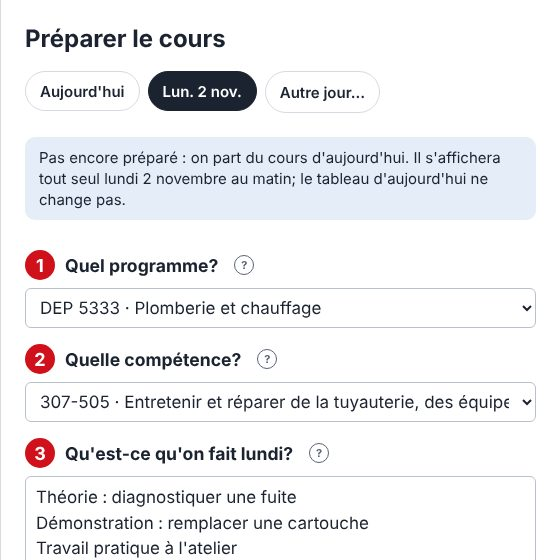
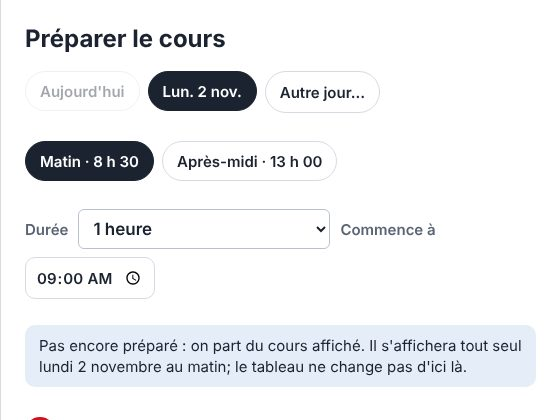
Tableau de bord : préparer matin ou après-midi, durée du cours (1 h, 2 h…)
Claude-Session: https://claude.ai/code/session_0132P7fSy2K8VC3HWdnHumMj

diff --git a/accueil.html b/accueil.html
@@ -154,6 +154,10 @@ header { grid-column: 1 / -1; display: flex; align-items: center; justify-conten
 .jour-choix button .pret { width: 8px; height: 8px; border-radius: 50%; background: #2f9e44; }
 .jour-choix button.on .pret { background: #69db7c; }
 .jour-choix input[type=date] { border: 0; background: transparent; color: inherit; font: inherit; width: 0; padding: 0; opacity: 0; position: absolute; pointer-events: none; }
+.jour-choix button:disabled { opacity: .4; cursor: default; }
+.duree-choix { display: flex; flex-wrap: wrap; align-items: center; gap: 8px 10px; margin: 2px 0 12px; }
+.duree-choix label { font: 600 15px var(--body); color: var(--muted); }
+.duree-choix select, .duree-choix input { height: 40px; border-radius: 10px; border: 1px solid var(--line); background: var(--surface); color: var(--ink); font: 600 15px var(--body); padding: 0 10px; }
 .jour-note { margin: -2px 0 14px; padding: 10px 14px; border-radius: 10px; background: color-mix(in srgb, var(--water) 12%, transparent); font-size: 15px; line-height: 1.4; }
 .exam-opt { display: flex; gap: 12px; align-items: flex-start; margin: 4px 0 18px; padding: 12px 14px; border: 1px solid var(--line); border-radius: 10px; cursor: pointer; line-height: 1.35; }
 .exam-opt input { width: 22px; height: 22px; margin: 1px 0 0; flex: none; accent-color: #e50914; cursor: pointer; }
@@ -617,6 +621,8 @@ html.anim-off .bgfx .flow, html.anim-off .bgfx .gauge-needle, html.anim-off .bgf
   <form class="sheet-in" id="prepForm">
     <h2>Préparer le cours</h2>
     <div class="jour-choix" id="f-jours" role="group" aria-label="Pour quel jour?"></div>
+    <div class="jour-choix" id="f-pers" role="group" aria-label="Matin ou après-midi?"></div>
+    <div class="duree-choix"><label for="f-duree">Durée</label><select id="f-duree"></select><label for="f-debut">Commence à</label><input type="time" id="f-debut" step="300"></div>
     <p class="jour-note" id="f-jour-note" hidden></p>
     <div class="field"><label for="f-prog" class="step-q"><span class="num">1</span>Quel programme? <span class="tip-i" tabindex="0" role="img" aria-label="Aide : Le logo, le nom du programme et la liste des compétences changent selon ce choix." data-tip="Le logo, le nom du programme et la liste des compétences changent selon ce choix.">?</span></label><select id="f-prog"><option value="5333">DEP 5333 · Plomberie et chauffage</option><option value="5211">DEP 5211 · Entretien général d'immeubles</option></select></div>
     <div class="field"><label for="f-comp" class="step-q"><span class="num">2</span>Quelle compétence? <span class="tip-i" tabindex="0" role="img" aria-label="Aide : Elle s'affiche aux élèves et choisit l'arrière-plan." data-tip="Elle s'affiche aux élèves et choisit l'arrière-plan.">?</span></label><select id="f-comp"></select><input id="f-module" placeholder="Nom du module, si « Autre »"></div>
@@ -631,7 +637,7 @@ html.anim-off .bgfx .flow, html.anim-off .bgfx .gauge-needle, html.anim-off .bgf
       <ul class="ai-why" id="ai-why" hidden></ul>
       <ol class="preview" id="f-preview" aria-label="Aperçu de l'horaire du matin"></ol>
       </details></div>
-    <label class="exam-opt" for="f-exam"><input type="checkbox" id="f-exam"><span><b>Examen aujourd'hui</b> — pas de pause dans l'horaire<small>Revient tout seul à l'horaire normal demain.</small></span></label>
+    <label class="exam-opt" for="f-exam"><input type="checkbox" id="f-exam"><span><b>Examen aujourd'hui</b> — pas de pause dans l'horaire<small>Seulement pour ce cours.</small></span></label>
     <div class="field"><span class="step-q"><span class="num">4</span>Ouvrir quelque chose pendant une activité? <small class="opt">facultatif</small></span>
       <small class="lk-aide">Choisis une page de livre, un schéma, un plan, un fichier (PDF, image…), un lien web, une vidéo YouTube ou une minuterie pour une activité. En classe, un bouton « Ouvrir » apparaît quand l'activité commence.</small>
       <div class="lk-liste" id="f-liens"></div></div>
@@ -741,15 +747,34 @@ function dur(sec) {
 // Structure fixe d'une période : les pauses ne peuvent pas être retirées
 const BLOCKS = [["cours", 60], ["pause", 5], ["cours", 60], ["pause", 15], ["cours", 60]];
 const CLASS_MIN = 180, SPAN = 200;
-/* Examen : case à cocher dans « Préparer le cours ». Aucune pause dans l'horaire (3 h 20 d'un bloc); valable pour la journée seulement. */
+/* Examen : case à cocher dans « Préparer le cours ». Aucune pause dans l'horaire; valable pour la période préparée seulement. */
 const jourAuj = () => new Date().toDateString();
-function examOn() { const c = document.getElementById("f-exam"); if (c && !document.getElementById("prep").hidden) return c.checked; return cfg.examen === jourAuj(); }
-const blocs = () => examOn() ? [["cours", SPAN]] : BLOCKS;
-const classMin = () => examOn() ? SPAN : CLASS_MIN;
+const isoJour = d => d.getFullYear() + "-" + String(d.getMonth() + 1).padStart(2, "0") + "-" + String(d.getDate()).padStart(2, "0");
+const dateIso = s => { const [a, m, j] = s.split("-").map(Number); return new Date(a, m - 1, j); };
+const nomJour = (s, court) => { const t = dateIso(s).toLocaleDateString("fr-CA", court ? { weekday: "short", day: "numeric", month: "short" } : { weekday: "long", day: "numeric", month: "long" }); return t.charAt(0).toUpperCase() + t.slice(1); };
+/* Durée d'un cours (30 oct., « des fois j'ai des cours de seulement une heure ») : chaque période (jour + matin/après-midi) peut avoir sa durée et son heure de début.
+   cfg.slot = "AAAA-MM-JJ|am" (période du contenu affiché), cfg.duree (minutes, 200 = période complète), cfg.debut ("HH:MM" ou "" = heure habituelle). */
+const DUREES = [[200, "Période complète · 3 h 20"], [60, "1 heure"], [90, "1 h 30"], [120, "2 heures"], [150, "2 h 30"]];
+function blocsPour(D, exam) {
+  if (exam) return [["cours", D]];
+  if (D === SPAN) return BLOCKS;
+  if (D <= 75) return [["cours", D]];                                   /* 1 heure : pas de pause */
+  if (D <= 145) { const a = Math.round((D - 5) / 2 / 5) * 5; return [["cours", a], ["pause", 5], ["cours", D - 5 - a]]; }
+  return [["cours", 60], ["pause", 5], ["cours", 60], ["pause", 15], ["cours", D - 140]];
+}
+function prepOuvert() { const p = document.getElementById("prep"); return !!p && !p.hidden; }
+function examOn() { const c = document.getElementById("f-exam"); if (c && prepOuvert()) return c.checked; return cfg.examen === jourAuj(); }
+const ctxForm = () => ({ D: +(document.getElementById("f-duree") || {}).value || SPAN, exam: document.getElementById("f-exam").checked });
+function ctxDe(start) { const p = periods().find(x => x.start === start); return { D: p ? p.end - p.start : SPAN, exam: !!(p && p.actif) && cfg.examen === jourAuj() }; }
+const blocs = ctx => blocsPour(ctx.D, ctx.exam);
+const classMin = ctx => blocs(ctx).reduce((t, [ty, d]) => t + (ty === "cours" ? d : 0), 0);
+const dureeTexte = m => m >= 60 ? Math.floor(m / 60) + " h" + (m % 60 ? " " + String(m % 60).padStart(2, "0") : "") : m + " min";
 
 function periods() {
-  return [["Matin", cfg.amStart], ["Après-midi", cfg.pmStart]].filter(p => /\d/.test(p[1] || ""))
-    .map(([name, t]) => ({ name, start: toMin(t), end: toMin(t) + SPAN })).sort((a, b) => a.start - b.start);
+  const auj = isoJour(new Date());
+  return [["Matin", "am", cfg.amStart], ["Après-midi", "pm", cfg.pmStart]].filter(p => /\d/.test(p[2] || ""))
+    .map(([name, key, t]) => { const actif = cfg.slot === auj + "|" + key, st = toMin(actif && cfg.debut ? cfg.debut : t), D = actif ? (+cfg.duree || SPAN) : SPAN;
+      return { name, key, actif, start: st, end: st + D }; }).sort((a, b) => a.start - b.start);
 }
 // Durées typiques selon les mots du point (en minutes). "flex" = activité qui absorbe le temps restant.
 const RULES = [
@@ -770,8 +795,10 @@ function estimate(label) {
   for (const [re, d, flex] of RULES) if (re.test(label)) return { d, flex: !!flex };
   return { d: 30, flex: false };
 }
-function points(text) {
-  const CLASS_MIN = classMin(), exam = examOn();
+function points(text, ctx) {
+  ctx = ctx || (prepOuvert() ? ctxForm() : { D: SPAN, exam: false });
+  const CLASS_MIN = classMin(ctx), exam = ctx.exam;
+  const PAUSES = []; { let c = 0; blocs(ctx).forEach(([ty, d]) => { if (ty === "cours") c += d; else PAUSES.push(c); }); }
   const items = text.split("\n").map(l => l.trim()).filter(Boolean).map(l => {
     const m = l.match(/^(\d+)\s*(?:min)?\s*\|\s*(.+)$/);
     return m ? { d: +m[1], label: m[2].trim(), fixed: true } : { label: l.replace(/^\|\s*/, ""), fixed: false };
@@ -805,7 +832,7 @@ function points(text) {
   for (let k = 0; k < list.length - 1; k++) {
     const L = list[k], R = list[k + 1];
     if (L.fixed || R.fixed || exam) continue;
-    for (const P of [60, 120]) {
+    for (const P of PAUSES) {
       if (L.b !== P && Math.abs(L.b - P) <= 10 && P - L.a >= 5 && R.b - P >= 5) { L.b = P; R.a = P; break; }
     }
   }
@@ -831,9 +858,10 @@ function cesure(txt) {
     return out;
   }).join(" ");
 }
-function timeline(start, text) {
-  const pts = points(text).list; const rows = []; let real = start, cls = 0;
-  blocs().forEach(([type, d]) => {
+function timeline(start, text, ctx) {
+  ctx = ctx || ctxDe(start);
+  const pts = points(text, ctx).list; const rows = []; let real = start, cls = 0;
+  blocs(ctx).forEach(([type, d]) => {
     if (type === "pause") { rows.push({ label: "Pause de " + d + " min", pause: true, start: real, end: real + d }); }
     else if (!pts.length) { rows.push({ label: "Cours", start: real, end: real + d }); }
     else pts.forEach(p => {
@@ -964,12 +992,12 @@ function tick() {
     $("v-pname").textContent = "Aucune période"; $("v-phours").textContent = "";
     $("v-status").textContent = "Ajoute ton horaire dans les réglages."; $("v-water").style.width = "0%";
   } else {
-    $("v-pname").textContent = ref.name; $("v-exam").hidden = !examOn();
+    $("v-pname").textContent = ref.name; $("v-exam").hidden = !ctxDe(ref.start).exam;
     $("v-phours").textContent = fmt(ref.start) + " à " + fmt(ref.end);
     if (cur) {
       const pct = (nowMin - cur.start) / (cur.end - cur.start) * 100;
       $("v-water").style.width = pct.toFixed(2) + "%";
-      $("v-status").textContent = (examOn() ? "Examen en cours · fin dans " : "Fin de la période dans ") + dur((cur.end - nowMin) * 60);
+      $("v-status").textContent = (ctxDe(cur.start).exam ? "Examen en cours · fin dans " : (cur.end - cur.start < SPAN ? "Fin du cours dans " : "Fin de la période dans ")) + dur((cur.end - nowMin) * 60);
     } else if (next) {
       $("v-water").style.width = "0%";
       $("v-status").textContent = "Le cours commence dans " + dur((next.start - nowMin) * 60);
@@ -1028,7 +1056,7 @@ function tick() {
       $("v-status").textContent = "C'est la pause! Retour en classe dans " + dur((inStep.end - nowMin) * 60);
     } else {
       const np = rows.find(r => r.start > nowMin && r.pause);
-      $("v-status").textContent = np ? "Prochaine pause dans " + dur((np.start - nowMin) * 60) : "Fin de la période dans " + dur((cur.end - nowMin) * 60);
+      $("v-status").textContent = np ? "Prochaine pause dans " + dur((np.start - nowMin) * 60) : (cur.end - cur.start < SPAN ? "Fin du cours dans " : "Fin de la période dans ") + dur((cur.end - nowMin) * 60);
     }
   }
   {
@@ -1498,14 +1526,14 @@ function openSettings() {
   $("sheet").hidden = false; $("f-title").focus(); $("ai-why").hidden = true; $("ai-note").textContent = ""; preview();
 }
 function preview() {
-  const nowM = new Date().getHours() * 60 + new Date().getMinutes(), pm = toMin(cfg.pmStart || "13:00"); const text = $("f-steps").value, start = nowM >= toMin(cfg.amStart || "08:30") + SPAN && nowM < pm + SPAN ? pm : toMin(cfg.amStart || "08:30");
-  const info = points(text);
-  const html = timeline(start, text).map(r => `<li class="${r.pause ? "p" : ""}"><span>${fmt(r.start)}–${fmt(r.end)}</span><span></span></li>`).join("");
+  const text = $("f-steps").value, ctx = ctxForm(), start = toMin($("f-debut").value || (PER_PREP === "pm" ? cfg.pmStart : cfg.amStart) || "08:30");
+  const info = points(text, ctx);
+  const html = timeline(start, text, ctx).map(r => `<li class="${r.pause ? "p" : ""}"><span>${fmt(r.start)}–${fmt(r.end)}</span><span></span></li>`).join("");
   $("f-preview").innerHTML = html;
-  const rows = timeline(start, text);
+  const rows = timeline(start, text, ctx);
   [...$("f-preview").children].forEach((li, k) => { li.lastChild.textContent = rows[k].label; });
   renderDurs();
-  if (info.over || info.cut) { const w = document.createElement("li"); w.innerHTML = '<span class="warn">Les durées dépassent ' + (examOn() ? "3 h 20" : "3 h") + ' de cours : les derniers points ne tiennent pas.</span>'; w.style.display = "block"; $("f-preview").append(w); }
+  if (info.over || info.cut) { const w = document.createElement("li"); w.innerHTML = '<span class="warn">Les durées dépassent ' + dureeTexte(classMin(ctx)) + ' de cours : les derniers points ne tiennent pas.</span>'; w.style.display = "block"; $("f-preview").append(w); }
 }
 ["f-steps", "f-amStart"].forEach(id => $(id).addEventListener("input", preview));
 $("f-exam").addEventListener("change", () => { preview(); $("prep-more").open = true; });
@@ -1517,7 +1545,7 @@ function renderDurs() {
   const acts = [];
   lines.forEach((l, idx) => { const t = l.trim(); if (!t) return; const m = t.match(/^(\d+)\s*(?:min)?\s*\|\s*(.+)$/); const label = m ? m[2].trim() : t.replace(/^\|\s*/, "");
     if (/^pause\b/i.test(label) || /^accueil\b|présences?\b/i.test(label)) return; acts.push({ idx, label, fixed: !!m }); });
-  const list = points(ta.value).list; // [0] = accueil
+  const list = points(ta.value, ctxForm()).list; // [0] = accueil
   const box = $("f-durs"); box.innerHTML = "";
   const row = (label, mins, opts = {}) => {
     const d = document.createElement("div"); d.className = "dur" + (opts.locked ? " locked" : "") + (opts.fixed ? " fixed" : "");
@@ -1553,16 +1581,17 @@ $("b-ai").addEventListener("click", async () => {
     .map(l => l.replace(/^\d+\s*(?:min)?\s*\|\s*/, ""));
   if (!lines.length) { $("ai-note").textContent = "Écris d'abord tes points, un par ligne."; return; }
   const btn = $("b-ai"); btn.disabled = true; $("ai-note").textContent = "Claude réfléchit…";
+  const ctxIA = ctxForm(), minIA = classMin(ctxIA), pausesIA = []; { let c = 0; blocs(ctxIA).forEach(([ty, d]) => { if (ty === "cours") c += d; else pausesIA.push(c); }); }
   const prompt = `Tu aides un enseignant du ${PROGS[$("f-prog").value] || "DEP 5333 · Plomberie et chauffage"} (formation professionnelle au Québec, élèves adultes et jeunes adultes) à planifier une période.
-La période contient 180 minutes de cours. Il y a une pause après 60 minutes de cours et une autre après 120 minutes de cours.
+La période contient ${minIA} minutes de cours.${pausesIA.length ? " Il y a une pause après " + pausesIA.join(" et après ") + " minutes de cours." : " Il n'y a pas de pause."}
 Compétence : ${moduleText($("f-comp").value, $("f-module").value) || "non précisée"}.
 Points de la période, dans l'ordre (garde cet ordre et ce libellé exact) :
 ${lines.map((l, k) => (k + 1) + ". " + l).join("\n")}
 
 Donne une durée réaliste à chaque point. Règles :
-- Le total doit faire exactement 180 minutes; chaque durée est un multiple de 5 et au moins 5.
+- Le total doit faire exactement ${minIA} minutes; chaque durée est un multiple de 5 et au moins 5.
 - Les activités pratiques à l'atelier prennent normalement le plus de temps; l'accueil et le bilan restent courts; prévois du temps de rangement réaliste si un point le mentionne.
-- Quand c'est raisonnable, fais tomber les changements d'activité sur les pauses (à 60 et à 120 minutes de cours).
+${pausesIA.length ? "- Quand c'est raisonnable, fais tomber les changements d'activité sur les pauses (à " + pausesIA.join(" et à ") + " minutes de cours)." : ""}
 - Pour chaque point, une raison très courte (10 mots maximum) en français.
 Réponds seulement en JSON : {"points":[{"label":"...","minutes":0,"raison":"..."}]}`;
   try {
@@ -1901,70 +1930,96 @@ function lierActivite(label){
     if (liste(LIENS_T[k]).length < MAX_LIENS) choix(row, row.querySelector(".lk-nom").textContent);
   }, 120);
 }
-/* ===== Préparer un autre jour (30 oct., « j'aimerais pouvoir préparer mon cours de lundi ») =====
-   cfg.plans["AAAA-MM-JJ"] = { prog, comp, module, steps, liens, examen } : appliqué tout seul ce jour-là (appliquerPlanDuJour, au chargement et à minuit). */
-const isoJour = d => d.getFullYear() + "-" + String(d.getMonth() + 1).padStart(2, "0") + "-" + String(d.getDate()).padStart(2, "0");
-const dateIso = s => { const [a, m, j] = s.split("-").map(Number); return new Date(a, m - 1, j); };
-const nomJour = (s, court) => { const t = dateIso(s).toLocaleDateString("fr-CA", court ? { weekday: "short", day: "numeric", month: "short" } : { weekday: "long", day: "numeric", month: "long" }); return t.charAt(0).toUpperCase() + t.slice(1); };
+/* ===== Préparer un autre jour ou une autre période (30 oct. : « préparer mon cours de lundi », « choisir am ou pm », « cours d'une heure ») =====
+   Une période = "AAAA-MM-JJ|am" ou "|pm". Le contenu affiché appartient à cfg.slot. Les autres périodes préparées attendent dans
+   cfg.plans[clé] = { prog, comp, module, steps, liens, examen, duree, debut } et s'appliquent toutes seules quand leur période arrive (appliquerPlans). */
 function prochainJourClasse(){ const d = new Date(); do { d.setDate(d.getDate() + 1); } while (d.getDay() === 0 || d.getDay() === 6); return isoJour(d); }
-let JOUR_PREP = "";   /* "" = aujourd'hui */
-function planDe(jour){ if (!jour) return { prog: cfg.prog, comp: cfg.comp, module: cfg.module, steps: cfg.steps, liens: cfg.liens || {}, examen: cfg.examen === jourAuj() };
-  return (cfg.plans || {})[jour] || null; }
-function remplirPrep(jour){
-  JOUR_PREP = jour; const P = planDe(jour) || planDe(""), neuf = jour && !planDe(jour);
+const NOM_PER = { am: "matin", pm: "après-midi" };
+const cleSlot = (jour, per) => (jour || isoJour(new Date())) + "|" + per;
+function slotActif(){ const d = new Date(), m = d.getHours() * 60 + d.getMinutes(), ps = periods();
+  const p = ps.find(x => m >= x.start && m < x.end) || ps.find(x => x.start > m); return p ? isoJour(d) + "|" + p.key : null; }
+function perPassee(per){ const d = new Date(), m = d.getHours() * 60 + d.getMinutes(), p = periods().find(x => x.key === per); return !p || m >= p.end; }
+function contenuActuel(){ return { prog: cfg.prog, comp: cfg.comp, module: cfg.module, steps: cfg.steps, liens: cfg.liens || {}, examen: cfg.examen === jourAuj(), duree: +cfg.duree || SPAN, debut: cfg.debut || "" }; }
+function contenuDe(k){ if (k === cfg.slot) return contenuActuel(); return (cfg.plans || {})[k] || null; }
+let JOUR_PREP = "", PER_PREP = "am";
+function remplirPrep(jour, per){
+  JOUR_PREP = jour; PER_PREP = per;
+  const k = cleSlot(jour, per), P0 = contenuDe(k), neuf = !P0, P = P0 || Object.assign(contenuActuel(), { examen: false, duree: SPAN, debut: "" });
   const prog = (compInfo(P.comp) || [])[3] || P.prog || "5333";
   $("f-prog").value = prog; fillComps(prog);
   $("f-comp").value = P.comp; $("f-module").value = P.module || ""; $("f-steps").value = P.steps || "";
   $("f-amStart").value = cfg.amStart; $("f-pmStart").value = cfg.pmStart;
   $("f-module").hidden = $("f-comp").value !== "autre";
-  $("f-exam").checked = !!P.examen && !neuf;
+  $("f-exam").checked = !!P.examen;
+  $("f-duree").value = String(DUREES.some(d => d[0] === +P.duree) ? +P.duree : SPAN);
+  $("f-debut").value = P.debut || (per === "pm" ? cfg.pmStart : cfg.amStart);
   LIENS_T = JSON.parse(JSON.stringify(P.liens || {}));
+  const actif = k === (slotActif() || cfg.slot), quand = jour ? nomJour(jour).toLowerCase() + (per === "am" ? " au matin" : " en après-midi") : (per === "am" ? "ce matin" : "cet après-midi");
   const note = $("f-jour-note");
-  if (jour){ note.hidden = false; note.textContent = (neuf ? "Pas encore préparé : on part du cours d'aujourd'hui. " : "Déjà préparé. ") + "Il s'affichera tout seul " + nomJour(jour).toLowerCase() + " au matin; le tableau d'aujourd'hui ne change pas."; }
+  if (!actif){ note.hidden = false; note.textContent = (neuf ? "Pas encore préparé : on part du cours affiché. " : "Déjà préparé. ") + "Il s'affichera tout seul " + quand + "; le tableau ne change pas d'ici là."; }
   else note.hidden = true;
-  $("prepForm").querySelector('button[type="submit"]').textContent = jour ? "Enregistrer pour " + nomJour(jour, true).toLowerCase() : "Afficher au tableau";
-  $("f-q3").textContent = jour ? "Qu'est-ce qu'on fait " + nomJour(jour).toLowerCase().replace(/ \d.*/, "") + "?" : "Qu'est-ce qu'on fait aujourd'hui?";
-  const ex = $("f-exam").closest(".exam-opt").querySelector("b"); if (ex) ex.textContent = jour ? "Examen ce jour-là" : "Examen aujourd'hui";
+  $("prepForm").querySelector('button[type="submit"]').textContent = actif ? "Afficher au tableau" : "Enregistrer pour " + (jour ? nomJour(jour, true).toLowerCase().replace(/ \d.*/, "") : (per === "pm" ? "cet" : "ce")) + " " + (per === "am" ? "matin" : "après-midi");
+  $("f-q3").textContent = "Qu'est-ce qu'on fait " + (jour ? nomJour(jour).toLowerCase().replace(/ \d.*/, "") + " " : "") + (per === "am" ? (jour ? "matin" : "ce matin") : (jour ? "après-midi" : "cet après-midi")) + "?";
+  const ex = $("f-exam").closest(".exam-opt").querySelector("b"); if (ex) ex.textContent = "Examen pendant ce cours";
   boutonsJours(); preview(); renderLiens();
 }
 function boutonsJours(){
-  const box = $("f-jours"), plans = cfg.plans || {}, auj = isoJour(new Date()), pro = prochainJourClasse();
-  const jours = [...new Set([pro, ...Object.keys(plans).filter(j => j > auj)])].sort();
-  box.innerHTML = "";
+  const plans = cfg.plans || {}, auj = isoJour(new Date()), pro = prochainJourClasse(), finiAuj = perPassee("am") && perPassee("pm");
+  const pret = j => Object.keys(plans).some(k => k.startsWith(j + "|"));
+  const jours = [...new Set([pro, ...Object.keys(plans).map(k => k.split("|")[0]).filter(j => j > auj)])].sort();
+  const box = $("f-jours"); box.innerHTML = "";
   const btn = (jour, txt) => { const b = document.createElement("button"); b.type = "button"; b.className = JOUR_PREP === jour ? "on" : "";
-    b.innerHTML = (jour && plans[jour] ? '<span class="pret" title="Déjà préparé"></span>' : "") + "<span></span>"; b.lastChild.textContent = txt; b.onclick = () => remplirPrep(jour); box.append(b); };
+    if (!jour && finiAuj){ b.disabled = true; b.title = "Les cours d'aujourd'hui sont terminés"; }
+    b.innerHTML = (jour && pret(jour) ? '<span class="pret" title="Déjà préparé"></span>' : "") + "<span></span>"; b.lastChild.textContent = txt;
+    b.onclick = () => { let per = PER_PREP; if (!jour && perPassee(per)) per = "pm"; remplirPrep(jour, per); }; box.append(b); };
   btn("", "Aujourd'hui");
   jours.forEach(j => btn(j, nomJour(j, true)));
   const autre = document.createElement("label"); autre.innerHTML = '<span>Autre jour…</span><input type="date">'; const inp = autre.querySelector("input"); inp.min = auj;
   autre.onclick = e => { e.preventDefault(); try { inp.showPicker(); } catch(_){ inp.style.cssText = "opacity:1;width:auto;position:static;pointer-events:auto"; inp.focus(); } };
-  inp.onchange = () => { if (inp.value && inp.value > auj) remplirPrep(inp.value); else if (inp.value === auj) remplirPrep(""); };
+  inp.onchange = () => { if (inp.value && inp.value > auj) remplirPrep(inp.value, PER_PREP); else if (inp.value === auj) remplirPrep("", PER_PREP); };
   box.append(autre);
+  /* matin / après-midi */
+  const bp = $("f-pers"); bp.innerHTML = "";
+  [["am", "Matin", cfg.amStart], ["pm", "Après-midi", cfg.pmStart]].forEach(([per, nom, t]) => {
+    const b = document.createElement("button"); b.type = "button"; b.className = PER_PREP === per ? "on" : "";
+    const k = cleSlot(JOUR_PREP, per), passe = !JOUR_PREP && perPassee(per);
+    if (passe){ b.disabled = true; b.title = "Ce cours est terminé"; }
+    b.innerHTML = ((plans[k] && k !== cfg.slot) ? '<span class="pret" title="Déjà préparé"></span>' : "") + "<span></span>"; b.lastChild.textContent = nom + " · " + fmt(toMin(t || "08:30"));
+    b.onclick = () => remplirPrep(JOUR_PREP, per); bp.append(b); });
 }
-function appliquerPlanDuJour(){
+function appliquerPlans(){
   const plans = cfg.plans || {}, auj = isoJour(new Date()); let change = false;
-  /* le plus récent des jours arrivés (si le tableau n'a pas été ouvert ce jour-là, on prend quand même le dernier cours préparé) */
-  const arrive = Object.keys(plans).filter(j => j <= auj).sort().pop();
-  if (arrive){ const P = plans[arrive];
-    ["prog", "comp", "module", "steps"].forEach(k => { if (P[k] !== undefined) cfg[k] = P[k]; });
-    cfg.liens = P.liens || {}; cfg.examen = P.examen && arrive === auj ? jourAuj() : ""; change = true; }
-  Object.keys(plans).forEach(j => { if (j <= auj){ delete plans[j]; change = true; } });   /* les jours passés (et celui d'aujourd'hui, maintenant appliqué) */
+  Object.keys(plans).forEach(k => { if (!k.includes("|")){ plans[k + "|am"] = plans[k]; delete plans[k]; change = true; } });   /* plans d'un jour entier (version du 30 oct., 17 h 50) → le matin */
+  const s = slotActif(), borne = s || auj + "|zz";
+  const arrives = Object.keys(plans).filter(k => k <= borne).sort();
+  if (arrives.length){ const k = arrives[arrives.length - 1], P = plans[k], ici = k === s;
+    ["prog", "comp", "module", "steps"].forEach(x => { if (P[x] !== undefined) cfg[x] = P[x]; });
+    cfg.liens = P.liens || {}; cfg.examen = ici && P.examen ? jourAuj() : ""; cfg.duree = ici ? (+P.duree || SPAN) : SPAN; cfg.debut = ici ? (P.debut || "") : "";
+    cfg.slot = s || cfg.slot; arrives.forEach(x => delete plans[x]); change = true; }
+  else if (s && cfg.slot !== s){         /* nouvelle période sans contenu préparé : même contenu, horaire habituel */
+    const vieux = cfg.slot; cfg.slot = s; if (vieux){ cfg.duree = SPAN; cfg.debut = ""; if (vieux.split("|")[0] !== auj) cfg.examen = ""; } change = true; }
   if (change){ cfg.plans = plans; lastStepsKey = ""; save(); if (typeof renderStatic === "function"){ renderStatic(); tick(); } }
 }
-let jourPlans = isoJour(new Date());
+let jourPlans = "";
 function openPrep() {
+  appliquerPlans();
   $("prep").hidden = false; $("ai-why").hidden = true; $("ai-note").textContent = "";
-  remplirPrep(""); $("f-comp").focus(); demanderCatalogue();
+  const s = slotActif();
+  if (s) remplirPrep("", s.split("|")[1]); else remplirPrep(prochainJourClasse(), "am");   /* journée terminée : on prépare le prochain jour de classe */
+  $("f-comp").focus(); demanderCatalogue();
 }
 $("b-prep-cancel").onclick = () => $("prep").hidden = true;
 $("prep").addEventListener("click", e => { if (e.target.id === "prep") $("prep").hidden = true; });
 $("f-comp").addEventListener("change", () => { $("f-module").hidden = $("f-comp").value !== "autre"; });
 $("prepForm").addEventListener("submit", e => {
   e.preventDefault();
-  if (JOUR_PREP){           /* un autre jour : on garde le plan, le tableau d'aujourd'hui ne change pas */
+  const k = cleSlot(JOUR_PREP, PER_PREP), duree = +$("f-duree").value || SPAN, defaut = PER_PREP === "pm" ? cfg.pmStart : cfg.amStart, debut = $("f-debut").value && $("f-debut").value !== defaut ? $("f-debut").value : "";
+  if (k !== (slotActif() || cfg.slot)){   /* une autre période : on la garde, le tableau ne change pas */
     cfg.plans = cfg.plans || {};
-    cfg.plans[JOUR_PREP] = { prog: $("f-prog").value, comp: $("f-comp").value, module: $("f-module").value, steps: $("f-steps").value, liens: JSON.parse(JSON.stringify(LIENS_T)), examen: $("f-exam").checked };
-    save(); $("prep").hidden = true; peMsg("Cours de " + nomJour(JOUR_PREP).toLowerCase() + " enregistré : il s'affichera tout seul ce jour-là."); return;
+    cfg.plans[k] = { prog: $("f-prog").value, comp: $("f-comp").value, module: $("f-module").value, steps: $("f-steps").value, liens: JSON.parse(JSON.stringify(LIENS_T)), examen: $("f-exam").checked, duree, debut };
+    save(); $("prep").hidden = true; peMsg("Cours " + (JOUR_PREP ? "de " + nomJour(JOUR_PREP).toLowerCase() : "d'aujourd'hui") + " " + (PER_PREP === "am" ? "matin" : "après-midi") + " enregistré : il s'affichera tout seul."); return;
   }
+  cfg.slot = k; cfg.duree = duree; cfg.debut = debut;
   ["comp", "module", "steps", "prog"].forEach(k => cfg[k] = $("f-" + k).value);
   cfg.liens = JSON.parse(JSON.stringify(LIENS_T)); lastStepsKey = ""; setTimeout(menageFichiers, 500);
   cfg.examen = $("f-exam").checked ? jourAuj() : "";
@@ -1979,7 +2034,8 @@ $("form").addEventListener("submit", e => {
   save(); renderStatic(); tick(); fitSoon(); $("sheet").hidden = true;
 });
 $("sheet").addEventListener("click", e => { if (e.target.id === "sheet") $("sheet").hidden = true; });
-$("b-apercuBienv").onclick = () => { if (window.ambApercuBienvenue) ambApercuBienvenue($("f-comp").value, JOUR_PREP ? nomJour(JOUR_PREP) : ""); };   /* la compétence choisie dans le formulaire, même pas encore affichée */
+$("b-apercuBienv").onclick = () => { if (window.ambApercuBienvenue) ambApercuBienvenue($("f-comp").value, (JOUR_PREP ? nomJour(JOUR_PREP) : "Aujourd'hui") + " " + NOM_PER[PER_PREP], toMin($("f-debut").value || "08:30")); };
+["f-duree", "f-debut"].forEach(id => $(id).addEventListener("change", preview));   /* la compétence choisie dans le formulaire, même pas encore affichée */
 
 // Révéler la réponse
 function toggleAnswer() { const a = $("v-a"); a.hidden = !a.hidden; if (!a.hidden) { const q = rotCards().findIndex(el => el.dataset.w === "question"); if (q >= 0) showRot(q); } $("b-reveal").textContent = a.hidden ? "Révéler la réponse" : "Cacher la réponse"; }
@@ -2074,9 +2130,10 @@ async function keepAwake() { try { if (navigator.wakeLock) await navigator.wakeL
 keepAwake();
 document.addEventListener("visibilitychange", () => { if (document.visibilityState === "visible") keepAwake(); });
 
-appliquerPlanDuJour();
+$("f-duree").innerHTML = DUREES.map(([v, n]) => '<option value="' + v + '">' + n + '</option>').join("");
+appliquerPlans();
 renderStatic(); tick(); setInterval(tick, 1000);
-setInterval(() => { const j = isoJour(new Date()); if (j !== jourPlans){ jourPlans = j; appliquerPlanDuJour(); } }, 30000);
+setInterval(() => { const s = slotActif() || isoJour(new Date()); if (s !== jourPlans){ jourPlans = s; appliquerPlans(); } }, 30000);
 </script>
 
 <script>
@@ -2197,11 +2254,10 @@ html.anim-off #accAccueil .aa-dans i { animation: none; }
     carte.querySelector(".aa-dans span").textContent = texteDans;
   }
   function montrerCarte(){ if (carte.hidden){ carte.hidden = false; carte.classList.remove("part"); requestAnimationFrame(() => requestAnimationFrame(() => carte.classList.add("vu"))); } }
-  window.ambApercuBienvenue = (code, jour) => {
+  window.ambApercuBienvenue = (code, jour, debut) => {
     const ps = periods(), d = new Date(), m = d.getHours() * 60 + d.getMinutes(), p = ps.find(x => x.start > m) || ps[0];
     apercu = true; carte.classList.add("apercu");
-    const q = jour ? ps[0] : p;
-    remplirCarte(q ? (jour ? jour + " : " : p.name === "Matin" && p.start <= m ? "Demain : " : "") + "Le cours commence à " + fmt(q.start) : "Le cours commence bientôt", code);
+    remplirCarte(jour && debut != null ? jour + " : le cours commence à " + fmt(debut) : p ? (p.name === "Matin" && p.start <= m ? "Demain : " : "") + "Le cours commence à " + fmt(p.start) : "Le cours commence bientôt", code);
     carte.querySelector(".aa-x").textContent = "Aperçu · touche pour fermer";
     montrerCarte();
   };

diff --git a/CLAUDE.md b/CLAUDE.md
@@ -146,7 +146,7 @@
   Types : `livre`, `schema`, `plan`, `tableau`, `minuterie`, `video` (YouTube, `ytInfo`), `fichier` (gardé dans IndexedDB `accueil-fichiers`). `web` (`urlWeb`, ouvert dans un nouvel onglet). Attention : `data-w` est déjà pris par les widgets, ne pas le réutiliser.
   Double-clic sur un segment de timeline / une étape : `lierActivite(label)` ouvre `openPrep()` et `choix()` sur la bonne rangée; le simple clic passe par `clicSimple` (délai 280 ms).
   Les PDF/images/vidéos s'affichent dans le tableau; PowerPoint/Word/Excel sont téléchargés pour s'ouvrir dans leur programme.
-- **Préparer un autre jour** (30 oct.) : rangée `#f-jours` en haut de Préparer le cours (Aujourd'hui · prochain jour de classe lun.–ven. `prochainJourClasse()` · jours déjà préparés (point vert `.pret`) · « Autre jour… » = `input type=date`). `JOUR_PREP` ("" = aujourd'hui), `remplirPrep(jour)`, `planDe(jour)`. Enregistrer un autre jour → `cfg.plans["AAAA-MM-JJ"] = {prog, comp, module, steps, liens, examen}` sans toucher au tableau (`peMsg`). `appliquerPlanDuJour()` au chargement et au changement de date (vérifié aux 30 s) : applique le plus récent plan dont la date est arrivée (examen seulement si c'est bien aujourd'hui) et efface les plans passés. Aperçu de la carte : « Lundi 2 novembre : Le cours commence à … ».
+- **Préparer une période d'avance + durée** (30 oct., « préparer mon cours de lundi », « choisir am ou pm », « cours d'une heure ») : une période = clé `"AAAA-MM-JJ|am"`/`"|pm"`. Le contenu affiché appartient à `cfg.slot`, avec `cfg.duree` (minutes; 200 = période complète) et `cfg.debut` ("HH:MM", "" = heure habituelle). `periods()` applique durée/début seulement à la période `actif` (= `cfg.slot` d'aujourd'hui); les autres gardent 3 h 20. `blocsPour(D, exam)` : 200 → `BLOCKS`; ≤ 75 → un bloc sans pause; ≤ 145 → deux blocs + pause 5; sinon 60/5/60/15/reste. `timeline(start, text, ctx)` et `points(text, ctx)` prennent `ctx = {D, exam}` (`ctxDe(start)` pour le tableau, `ctxForm()` pour le formulaire; plus de `examOn()` dans le calcul). Formulaire : `#f-jours` (Aujourd'hui grisé si la journée est finie · prochain jour de classe · jours préparés · « Autre jour… »), `#f-pers` (Matin/Après-midi, période passée grisée), `#f-duree` (`DUREES`), `#f-debut`. `remplirPrep(jour, per)`, `contenuDe(clé)`. Enregistrer : clé = période active (`slotActif()`) → affichée tout de suite; sinon `cfg.plans[clé] = {prog, comp, module, steps, liens, examen, duree, debut}`. `appliquerPlans()` (chargement, ouverture du formulaire, changement de période vérifié aux 30 s) : applique le plus récent plan arrivé (examen/durée/début seulement si c'est bien la période en cours), efface les plans arrivés; nouvelle période sans plan → même contenu, horaire habituel. Les plans d'un jour entier (clé sans « | », version de 17 h 50) deviennent « |am ». Examen = pour la période préparée seulement. Texte « Fin du cours dans » quand le cours est plus court que 3 h 20. L'aide de Claude (durées) utilise les minutes et pauses de la durée choisie.
 - **Ambiance du jour** : `AMBIANCES` (une palette par jour de semaine), `couleursDuJour()`; réglage `cfg.couleurs = "jour" | "fixe"`.
 - Icônes : style au trait uniquement (`ico(type)`, `ICO_P`), **pas d'émojis** (demande de Jeremy).
 - **Fond vivant** (30 oct., idées 1 à 6 choisies par Jeremy) : bloc « Fond vivant » (style + script) avant les bulles, à la fin d'`accueil.html`. Réglage `cfg.anim` (« Fond animé » dans **Plus → Réglages** (`#sheet`, pas Préparer le cours) : `auto` = comme l'ordinateur / `oui` / `non`) → classe `html.anim-off` (fige `.bgx *`, `.flow`, `.fan`, `.gauge-needle`; avant, seul `prefers-reduced-motion` figeait — et l'ordinateur de Jeremy a les animations coupées) et `reduceMotion` (devenu `let`). `applyBg` est enveloppée (réglage + `demarrer()`). Toile `#ambfx` à 75 % (`ECH`) + `#ambLum` (lumière du jour, dégradé en mélange normal : un `mix-blend-mode` plein écran coûtait ~30 % d'images/s), toutes deux après `#bgfx`, sous `.app`. (1) `etat()` : avant / debut / cours / fin (5 dernières min avant une pause ou la fin) / pause / hors → `VITESSE` (aussi appliquée aux animations CSS du fond par `updatePlaybackRate`), vague à chaque nouveau bloc (`cle` = début de période + rang), lueur cuivre en bas pendant « fin ». (2) `FAM[bgKind()]` : voyageurs sur les chemins `.flow`/`.pflow` (eau, bulles, courant, air, chaleur; plan = crayon qui trace) + extras (ronds sous `.goutte`, vapeur, alarme près de `.sonne`, gyrophare, feu de grue sur `.balance`, rayon de lumière, pings sur `.dot`, éclats, données, feuilles, braises, sciure, voyants). (3) halos `loin`, poussières `pres`, caméra lente sur les enfants de `#bgfx`. (4) `SURPRISES` toutes les 2-3 min (chariot, avion, clé, étincelles, grosse bulle, notif), placées dans les espaces libres (`couvre`/`libre`/`plancher` = dessus du panneau du bas); essai : `ambSurprise("chariot")`, `ambVague()`. (5) carte `#accAccueil` 5 min avant une période (toucher = fermer pour cette période); aperçu à toute heure : bouton `#b-apercuBienv` dans Préparer le cours → `ambApercuBienvenue(code)` (compétence du formulaire `#f-comp`, prochaine période ou « Demain », classe `.apercu` par-dessus le panneau, toucher = fermer). (6) `JOUR` : teinte selon l'heure. Figé : une seule image (`dessinerFige`).
